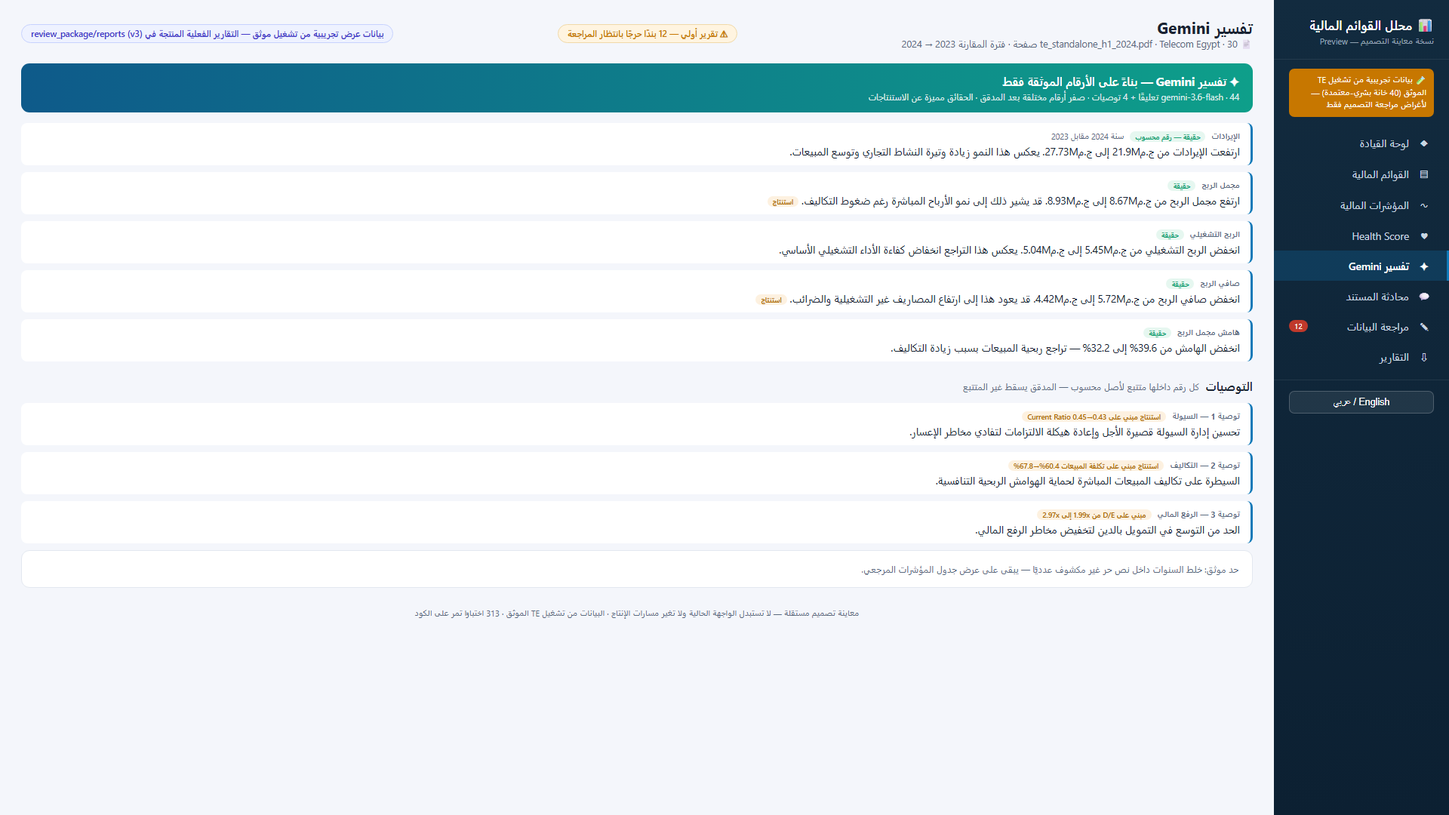
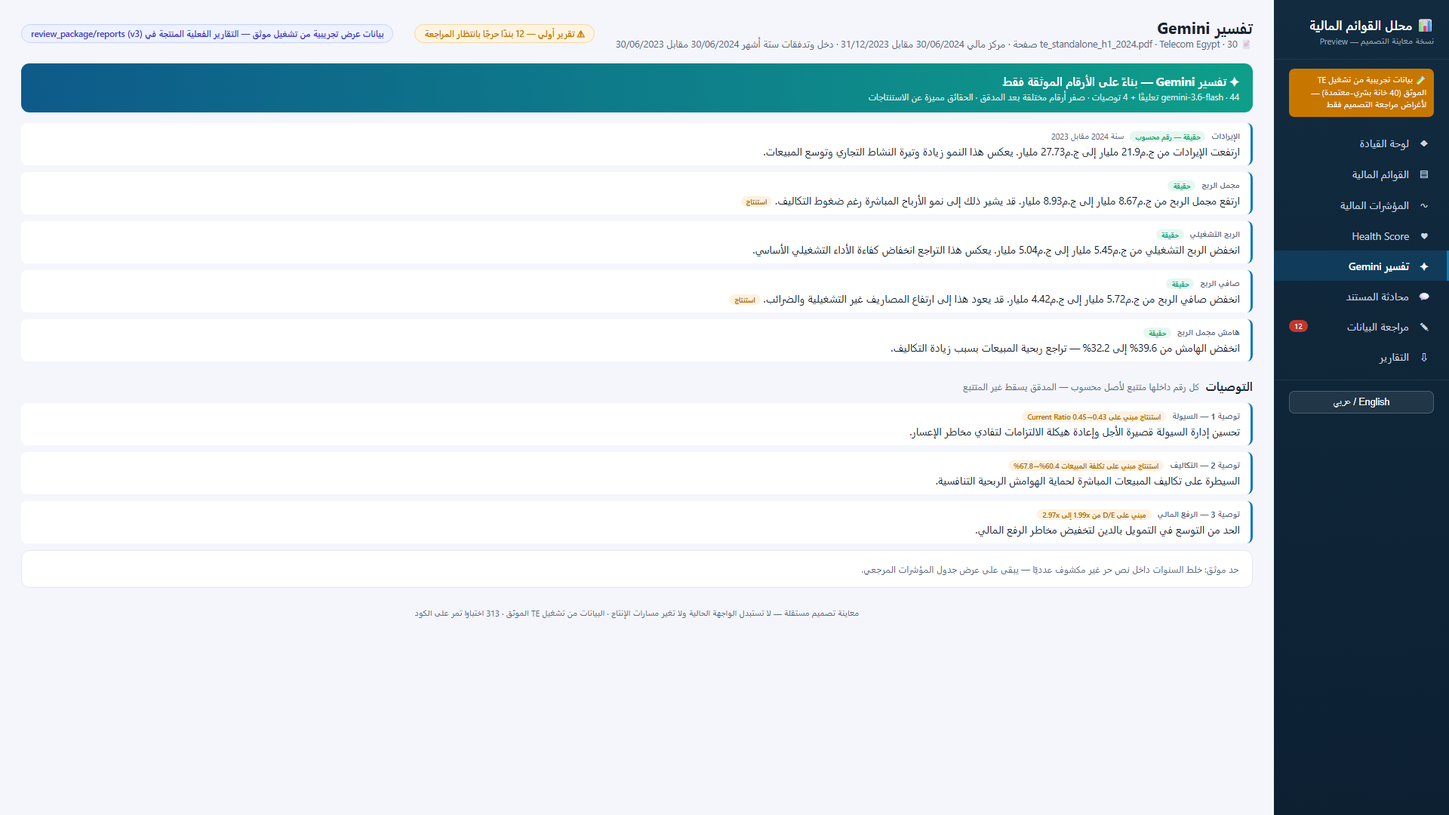
Review closure v4: four pre-merge points from the v3 package review
1. Preview data unification: the demo mixed THREE sources — EFG's
   accounts_payable (1,718,752/1,042,716) and AbuQir's current
   liabilities (6,467,099/4,740,794) sat in TE's statements table, with
   31/12/2024 headers on an interim SOFP. tools/audit_preview_data.py
   checks every preview value against the TE frozen GT: now 24/24 exact —
   TE values restored, non-GT rows replaced with GT-backed ones (receiv
   able, tax expense with its printed sign), SOFP dated 30/06/2024 vs
   31/12/2023, income six months 30/06/2024 vs 30/06/2023, review-queue
   rows relabeled to their 2022 test document, old M-notation strings
   updated to the unified Arabic units. GT files are NOT consumed as
   production extraction results — the preview stays a labeled demo.

2. PDF tail page: the disclaimer moved into the cover's meta table (no
   trailing paragraph at all) and LibreOffice's over-aggressive
   page-break-after:avoid removed — TE 13->12 pages, last page now the
   complete Missing-Data + review-trail content (536 chars), EFG last
   page 464 chars.

3. Provisional-analysis labeling (no equation changes): when the report
   is preliminary, a '⚠ تحليل تجريبي غير معتمد' banner precedes the
   Gemini commentary AND the recommendations in HTML/PDF, and Excel gets
   a '⚠ حالة النماذج' row on the academic-models sheet plus a 'حالة
   التحليل' row in the summary — nothing computed from needs-review
   values is presented as a final verdict anymore.
[…]

diff --git a/مشروع تخرج حسن/design/mvp_preview.html b/مشروع تخرج حسن/design/mvp_preview.html
@@ -153,7 +153,7 @@ body.en .nav a.on{border-left-color:var(--brand2);border-right:0}
     <div class="topbar">
       <div>
         <h2 id="vtitle">لوحة القيادة</h2>
-        <div class="file">📄 te_standalone_h1_2024.pdf · Telecom Egypt · 30 صفحة · فترة المقارنة 2023 → 2024</div>
+        <div class="file">📄 te_standalone_h1_2024.pdf · Telecom Egypt · 30 صفحة · مركز مالي 30/06/2024 مقابل 31/12/2023 · دخل وتدفقات ستة أشهر 30/06/2024 مقابل 30/06/2023</div>
       </div>
       <span class="pill prelim" id="statuspill">⚠ تقرير أولي — 12 بندًا حرجًا بانتظار المراجعة</span>
       <span class="pill" id="demopill" style="background:#eef2ff;color:#4338ca;border:1px solid #c7d2fe">بيانات عرض تجريبية من تشغيل موثق — التقارير الفعلية المنتجة في review_package/reports (v3)</span>
@@ -181,7 +181,7 @@ body.en .nav a.on{border-left-color:var(--brand2);border-right:0}
             الربح قبل الضريبة <b class="num">3,143,601</b> <span class="badge b-conv">اتفاقية: مطبوع</span><br>
             الضرائب (ائتمان) <b class="num">+1,272,749</b> <span class="badge b-conv">اتفاقية إشارة</span><br>
             <b>صافي الربح <span class="num">4,416,350</span></b> <span class="badge b-human">بشري</span><br>
-            <span style="color:var(--ink2);font-size:11.5px">⚠ الائتمان الضريبي (+1.27M) يفسّر ارتفاع الصافي عن قبل الضريبة — معلن في التقرير</span>
+            <span style="color:var(--ink2);font-size:11.5px">⚠ الائتمان الضريبي (+1.27 مليار) يفسّر ارتفاع الصافي عن قبل الضريبة — معلن في التقرير</span>
           </div>
         </div>
         <div class="card"><h3>Beneish M-Score</h3>
@@ -202,18 +202,16 @@ body.en .nav a.on{border-left-color:var(--brand2);border-right:0}
       <div class="sec" style="margin-top:0">قائمة المركز المالي — كما قُرئت من الصفحة 5 <small>انقر أي رقم لفتح مصدره من المستند</small></div>
       <div class="tblwrap">
         <table>
-          <thead><tr><th>البند</th><th>الإيضاح</th><th>31/12/2024</th><th>31/12/2023</th><th>الحالة</th><th>المصدر</th></tr></thead>
+          <thead><tr><th>البند</th><th>الإيضاح</th><th>30/06/2024</th><th>31/12/2023</th><th>الحالة</th><th>المصدر</th></tr></thead>
           <tbody>
             <tr><td>ممتلكات ومعدات</td><td class="dir-ltr">(12)</td><td class="num">89,842,411</td><td class="num">76,244,954</td><td><span class="badge b-auto">آلي عبر-طبقتين</span></td><td><a class="cite" onclick="openSrc('ممتلكات ومعدات','2024','89,842,411','ص5',5)">ص5 · الصف 12</a></td></tr>
-            <tr><td>أصول غير ملموسة</td><td class="dir-ltr">(13)</td><td class="num">20,327,981</td><td class="num">14,964,829</td><td><span class="badge b-auto">آلي</span></td><td><a class="cite" onclick="openSrc('أصول غير ملموسة','2024','20,327,981','ص5',5)">ص5</a></td></tr>
-            <tr><td><b>إجمالي الأصول غير المتداولة</b></td><td></td><td class="num"><b>130,024,840</b></td><td class="num"><b>105,727,263</b></td><td><span class="badge b-auto">آلي</span></td><td><a class="cite" onclick="openSrc('إجمالي الأصول غير المتداولة','2024','130,024,840','ص5',5)">ص5</a></td></tr>
             <tr><td>المخزون</td><td class="dir-ltr">(16)</td><td class="num">5,732,698</td><td class="num">3,623,500</td><td><span class="badge b-auto">آلي</span></td><td><a class="cite" onclick="openSrc('المخزون','2024','5,732,698','ص5',5)">ص5</a></td></tr>
+            <tr><td>ذمم مدينة وأرصدة مدينة أخرى</td><td class="dir-ltr">(15)</td><td class="num">12,985,847</td><td class="num">7,752,132</td><td><span class="badge b-auto">آلي</span></td><td><a class="cite" onclick="openSrc('ذمم مدينة','2024','12,985,847','ص5',5)">ص5</a></td></tr>
             <tr><td>نقدية وما في حكمها</td><td class="dir-ltr">(19)</td><td class="num">6,000,305</td><td class="num">10,272,954</td><td><span class="badge b-human">معتمد بشريًا</span></td><td><a class="cite" onclick="openSrc('نقدية وما في حكمها','2024','6,000,305','ص5',5)">ص5</a></td></tr>
             <tr><td><b>إجمالي الأصول المتداولة</b></td><td></td><td class="num"><b>39,472,216</b></td><td class="num"><b>28,631,278</b></td><td><span class="badge b-human">بشري</span></td><td><a class="cite" onclick="openSrc('إجمالي الأصول المتداولة','2024','39,472,216','ص5',5)">ص5</a></td></tr>
             <tr style="background:#f0f6fc"><td><b>إجمالي الأصول</b></td><td></td><td class="num" style="font-size:14px"><b>169,497,056</b></td><td class="num"><b>134,358,541</b></td><td><span class="badge b-auto">آلي عبر-طبقتين</span></td><td><a class="cite" onclick="openSrc('إجمالي الأصول','2024','169,497,056','ص5',5)">ص5</a></td></tr>
-            <tr><td>دائنون وأرصدة دائنة أخرى</td><td class="dir-ltr">(21)</td><td class="num">1,718,752</td><td class="num">1,042,716</td><td><span class="badge b-human">معتمد بشريًا</span></td><td><a class="cite" onclick="openSrc('دائنون — قسم المتداولة','2024','1,718,752','ص5',5)">ص5 · قسم المتداولة</a></td></tr>
-            <tr><td>ضريبة الدخل المتداولة</td><td class="dir-ltr">(30)</td><td class="num">3,511,467</td><td class="num">1,702,098</td><td><span class="badge b-auto">آلي</span></td><td><a class="cite" onclick="openSrc('ضريبة الدخل المتداولة','2024','3,511,467','ص5',5)">ص5</a></td></tr>
-            <tr><td><b>إجمالي الالتزامات المتداولة</b></td><td></td><td class="num"><b>6,467,099</b></td><td class="num"><b>4,740,794</b></td><td><span class="badge b-auto">آلي</span></td><td><a class="cite" onclick="openSrc('إجمالي الالتزامات المتداولة','2024','6,467,099','ص5',5)">ص5</a></td></tr>
+            <tr><td>دائنون وأرصدة دائنة أخرى</td><td class="dir-ltr">(21)</td><td class="num">33,524,304</td><td class="num">25,538,574</td><td><span class="badge b-human">معتمد بشريًا</span></td><td><a class="cite" onclick="openSrc('دائنون — قسم المتداولة','2024','33,524,304','ص5',5)">ص5 · قسم المتداولة</a></td></tr>
+            <tr><td><b>إجمالي الالتزامات المتداولة</b></td><td></td><td class="num"><b>91,625,404</b></td><td class="num"><b>64,166,416</b></td><td><span class="badge b-auto">آلي</span></td><td><a class="cite" onclick="openSrc('إجمالي الالتزامات المتداولة','2024','91,625,404','ص5',5)">ص5</a></td></tr>
             <tr><td><b>إجمالي الالتزامات</b></td><td></td><td class="num"><b>142,292,178</b></td><td class="num"><b>98,205,590</b></td><td><span class="badge b-human">معتمد بشريًا (تصحيح صف)</span></td><td><a class="cite" onclick="openSrc('إجمالي الالتزامات','2024','142,292,178','ص5',5)">ص5</a></td></tr>
             <tr style="background:#f0f6fc"><td><b>إجمالي حقوق الملكية والالتزامات</b></td><td></td><td class="num" style="font-size:14px"><b>169,497,056</b></td><td class="num"><b>134,358,541</b></td><td><span class="badge b-auto">آلي — مطابق للأصول</span></td><td><a class="cite" onclick="openSrc('إجمالي حقوق الملكية والالتزامات','2024','169,497,056','ص5',5)">ص5</a></td></tr>
           </tbody>
@@ -221,7 +219,7 @@ body.en .nav a.on{border-left-color:var(--brand2);border-right:0}
       </div>
       <div class="sec">قائمة الدخل — الصفحة 6</div>
       <div class="tblwrap"><table>
-        <thead><tr><th>البند</th><th>31/12/2024</th><th>31/12/2023</th><th>الحالة</th><th>المصدر</th></tr></thead>
+        <thead><tr><th>البند</th><th>30/06/2024</th><th>30/06/2023</th><th>الحالة</th><th>المصدر</th></tr></thead>
         <tbody>
           <tr><td>الإيرادات</td><td class="num">27,727,014</td><td class="num">21,899,104</td><td><span class="badge b-auto">آلي عبر-طبقتين</span></td><td><a class="cite" onclick="openSrc('الإيرادات','2024','27,727,014','ص6',6)">ص6</a></td></tr>
           <tr><td>تكلفة الإيرادات <span class="badge b-conv">اتفاقية: مخزنة موجبة</span></td><td class="num">18,799,203</td><td class="num">13,227,521</td><td><span class="badge b-conv">مطابقة المقدار — الإشارة باتفاقية</span></td><td><a class="cite" onclick="openSrc('تكلفة الإيرادات','2024','(18 799 203)','ص6',6)">ص6</a></td></tr>
@@ -311,10 +309,10 @@ body.en .nav a.on{border-left-color:var(--brand2);border-right:0}
     <!-- ═══ 5. GEMINI ═══ -->
     <section class="view" id="v-gemini">
       <div class="ai-head"><div><b>✦ تفسير Gemini — بناءً على الأرقام الموثقة فقط</b><div style="font-size:11.5px;opacity:.85;margin-top:3px">gemini-3.6-flash · 44 تعليقًا + 4 توصيات · صفر أرقام مختلقة بعد المدقق · الحقائق مميزة عن الاستنتاجات</div></div></div>
-      <div class="comment"><div class="who"><b>الإيرادات</b><span class="fact">حقيقة — رقم محسوب</span><span style="font-size:10.5px">سنة 2024 مقابل 2023</span></div>ارتفعت الإيرادات من ج.م21.9M إلى ج.م27.73M. يعكس هذا النمو زيادة وتيرة النشاط التجاري وتوسع المبيعات.</div>
-      <div class="comment"><div class="who"><b>مجمل الربح</b><span class="fact">حقيقة</span></div>ارتفع مجمل الربح من ج.م8.67M إلى ج.م8.93M. قد يشير ذلك إلى نمو الأرباح المباشرة رغم ضغوط التكاليف. <span class="infer">استنتاج</span></div>
-      <div class="comment"><div class="who"><b>الربح التشغيلي</b><span class="fact">حقيقة</span></div>انخفض الربح التشغيلي من ج.م5.45M إلى ج.م5.04M. يعكس هذا التراجع انخفاض كفاءة الأداء التشغيلي الأساسي.</div>
-      <div class="comment"><div class="who"><b>صافي الربح</b><span class="fact">حقيقة</span></div>انخفض صافي الربح من ج.م5.72M إلى ج.م4.42M. قد يعود هذا إلى ارتفاع المصاريف غير التشغيلية والضرائب. <span class="infer">استنتاج</span></div>
+      <div class="comment"><div class="who"><b>الإيرادات</b><span class="fact">حقيقة — رقم محسوب</span><span style="font-size:10.5px">سنة 2024 مقابل 2023</span></div>ارتفعت الإيرادات من ج.م21.9 مليار إلى ج.م27.73 مليار. يعكس هذا النمو زيادة وتيرة النشاط التجاري وتوسع المبيعات.</div>
+      <div class="comment"><div class="who"><b>مجمل الربح</b><span class="fact">حقيقة</span></div>ارتفع مجمل الربح من ج.م8.67 مليار إلى ج.م8.93 مليار. قد يشير ذلك إلى نمو الأرباح المباشرة رغم ضغوط التكاليف. <span class="infer">استنتاج</span></div>
+      <div class="comment"><div class="who"><b>الربح التشغيلي</b><span class="fact">حقيقة</span></div>انخفض الربح التشغيلي من ج.م5.45 مليار إلى ج.م5.04 مليار. يعكس هذا التراجع انخفاض كفاءة الأداء التشغيلي الأساسي.</div>
+      <div class="comment"><div class="who"><b>صافي الربح</b><span class="fact">حقيقة</span></div>انخفض صافي الربح من ج.م5.72 مليار إلى ج.م4.42 مليار. قد يعود هذا إلى ارتفاع المصاريف غير التشغيلية والضرائب. <span class="infer">استنتاج</span></div>
       <div class="comment"><div class="who"><b>هامش مجمل الربح</b><span class="fact">حقيقة</span></div>انخفض الهامش من 39.6% إلى 32.2% — تراجع ربحية المبيعات بسبب زيادة التكاليف.</div>
       <div class="sec">التوصيات <small>كل رقم داخلها متتبع لأصل محسوب — المدقق يسقط غير المتتبع</small></div>
       <div class="comment"><div class="who"><b>توصية 1 — السيولة</b><span class="infer">استنتاج مبني على Current Ratio 0.45→0.43</span></div>تحسين إدارة السيولة قصيرة الأجل وإعادة هيكلة الالتزامات لتفادي مخاطر الإعسار.</div>
@@ -360,12 +358,12 @@ body.en .nav a.on{border-left-color:var(--brand2);border-right:0}
       <div id="real-ev"></div>
       <div class="sec" style="margin-top:18px">البنود المعلقة</div>
       <div class="rrow">
-        <div class="fld">إجمالي الالتزامات 2024</div>
+        <div class="fld">الالتزامات الإجمالية 2022 (مستند اختباري)</div>
         <div class="vals"><span>الآلة: 15,928,525 <span class="badge b-conf">صف خطأ — قسم غير المتداولة</span></span></div>
         <div class="btns"><button class="btn ok">اعتماد الصحيح 142,292,178</button><button class="btn hum">تصحيح</button><button class="btn no">رفض</button><button class="btn ghost" onclick="openSrc('إجمالي الالتزامات','2024','—','ص5',5)">📄 المصدر ص5</button></div>
       </div>
       <div class="rrow">
-        <div class="fld">الربح التشغيلي 2024</div>
+        <div class="fld">الربح التشغيلي 2022 (مستند اختباري)</div>
         <div class="vals"><span>الآلة: 5,040,128 <span class="badge b-pend">أحادي الطبقة (رؤية فقط)</span></span></div>
         <div class="btns"><button class="btn ok">اعتماد</button><button class="btn hum">تصحيح</button><button class="btn no">رفض</button><button class="btn ghost" onclick="openSrc('الربح التشغيلي','2024','—','ص6',6)">📄 ص6</button></div>
       </div>
@@ -427,8 +425,8 @@ const TEXTMAP={
 "تقرير PDF":"PDF report","تقرير HTML":"HTML report","تقرير Excel تفاعلي":"Interactive Excel report","تنزيل PDF":"Download PDF","تنزيل XLSX":"Download XLSX","فتح HTML":"Open HTML","نفس الأرقام والتعليقات — يتضمن علم أولي/نهائي وأثر المراجعة — 15.5KB":"Same numbers and comments — includes the preliminary/final flag and the review trail — 15.5KB","الملخص · المؤشرات · الجداول · أثر المراجعة البشرية — 16.7KB":"Summary · Metrics · Tables · Human-review trail — 16.7KB","كل رقم داخلها متتبع لأصل محسوب — المدقق يسقط غير المتتبع":"Every number traces to a computed origin — the auditor drops untraceable ones",
 "التوصيات":"Recommendations","توصية 1 — السيولة":"Recommendation 1 — Liquidity","توصية 2 — التكاليف":"Recommendation 2 — Costs","توصية 3 — الرفع المالي":"Recommendation 3 — Leverage","تحسين إدارة السيولة قصيرة الأجل وإعادة هيكلة الالتزامات لتفادي مخاطر الإعسار.":"Improve short-term liquidity management and restructure liabilities to avert insolvency risk.","السيطرة على تكاليف المبيعات المباشرة لحماية الهوامش الربحية التنافسية.":"Control direct cost of sales to protect competitive margins.","حد موثق: خلط السنوات داخل نص حر غير مكشوف عدديًا — يبقى على عرض جدول المؤشرات المرجعي.":"Documented limit: mixing years inside free text is not numerically disclosed — it stays on the reference metrics table view.",
 "ما صافي الربح للفترة؟":"What is the net profit for the period?","ما ربحية السهم للفترة؟":"What is the EPS for the period?","ما السياسات المحاسبية؟":"What are the accounting policies?","ما مخاطر الائتمان التي تواجه الشركة؟":"What credit risks does the company face?","مصروفات البنود غير النقدية؟":"Non-cash item expenses?","إيضاح الضرائب المؤجلة؟":"Deferred-tax note?","إرسال":"Send",
-"هامش 15.93%":"Margin 15.93%","دوران 0.183":"Turnover 0.183","رافعة 4.796":"Leverage 4.796","✓ مطابق للـROE المباشر (reconciles)":"✓ matches direct ROE (reconciles)","الآلة: 15,928,525":"Machine: 15,928,525","الآلة: 5,040,128":"Machine: 5,040,128","الآلة: 3,143,601":"Machine: 3,143,601","الآلة: 18,799,203":"Machine: 18,799,203","اعتماد الصحيح 142,292,178":"Approve correct 142,292,178","اعتماد بالاتفاقية":"Approve by convention","صف خطأ — قسم غير المتداولة":"Wrong row — non-current section","مفكك ومتحقق منه":"Parsed and verified","مليار ج.م":"EGP billion","صافي الربح: مسار 2024":"Net income: 2024 path","▲ 26.6% عن 2023":"▲ 26.6% vs 2023","▼ 22.8% عن 2023":"▼ 22.8% vs 2023","▲ من 0.583 — رافعة مرتفعة":"▲ from 0.583 — high leverage","⚠ تقرير أولي — 12 بندًا حرجًا بانتظار المراجعة":"⚠ Preliminary report — 12 critical items awaiting review","أولي — 12 بندًا معلقًا":"Preliminary — 12 pending","بيانات عرض تجريبية من تشغيل موثق — التقارير الفعلية المنتجة في review_package/reports (v3)":"Demo display data from a verified run — the actual produced reports are in review_package/reports (v3)","⚠ الائتمان الضريبي (+1.27M) يفسّر ارتفاع الصافي عن قبل الضريبة — معلن في التقرير":"⚠ The tax credit (+1.27M) explains net exceeding pretax — disclosed in the report","⚠ رافعة مرتفعة (D/E 2.97) وسيولة ضعيفة (0.43×) — مخاطر ظاهرة في الدرجة ولا تختفي بتجميعها.":"⚠ High leverage (D/E 2.97) and weak liquidity (0.43×) — visible in the score, not hidden by aggregation.","✦ تفسير Gemini — بناءً على الأرقام الموثقة فقط":"✦ Gemini commentary — based on attested numbers only","🧪 بيانات تجريبية من تشغيل TE الموثق (40 خانة بشري-معتمدة) — لأغراض مراجعة التصميم فقط":"🧪 Demo data from the verified TE run (40 human-attested cells) — for design review only","معاينة تصميم مستقلة — لا تستبدل الواجهة الحالية ولا تغير مسارات الإنتاج · البيانات من تشغيل TE الموثق · 313 اختبارًا تمر على الكود":"Standalone design preview — does not replace the current UI nor touch production paths · data from the verified TE run · 313 tests passing","نسخة معاينة التصميم — Preview":"Design preview edition — Preview",
-"كل رقم يظهر بحالته الفعلية":"Every figure appears in its actual state","40/40 ملتقطة · Signed Exact للآلي = 38/40 (95%) · FA = 0":"40/40 captured · Signed Exact for auto = 38/40 (95%) · FA = 0","SGAI (مصروفات البيع والإدارة) غير موجود ضمن الخانات الموثقة لهذا المستند.":"SGAI (selling & admin expenses) is not among this document's attested cells.","المكونات الستة المتاحة معروضة في تبويب المؤشرات.":"The six available components are shown in the Metrics tab.","(مصروفات البيع والإدارة) — الخانات الموثقة لهذا المستند لا تشملها. الموديل يرفض إصدار M-Score جزئي (لا اختلاق).":"(selling & admin expenses) — this document's attested cells do not include them. The model refuses a partial M-Score (no fabrication).","📄 te_standalone_h1_2024.pdf · Telecom Egypt · 30 صفحة · فترة المقارنة 2023 → 2024":"📄 te_standalone_h1_2024.pdf · Telecom Egypt · 30 pages · comparison period 2023 → 2024","✓ استخراج: 40/40 خانة ملتقطة (رؤية + محلي عبر-طبقتين) · ✓ سلسلة المراجعة: 40 إقرارًا موثقًا (HMAC سليم) · ✓ Gemini: 44 تعليقًا + 4 توصيات (صفر أرقام مختلقة بعد المدقق) · ✓ RAG: 55/55 صفحة إيضاحات مفهرسة · ✓ PDF: 6 صفحات (257KB)":"✓ Extraction: 40/40 cells captured (vision + local, two layers) · ✓ Review chain: 40 attested records (HMAC intact) · ✓ Gemini: 44 comments + 4 recommendations (zero fabricated numbers after the auditor) · ✓ RAG: 55/55 note pages indexed · ✓ PDF: 6 pages (257KB)"};
+"هامش 15.93%":"Margin 15.93%","دوران 0.183":"Turnover 0.183","رافعة 4.796":"Leverage 4.796","✓ مطابق للـROE المباشر (reconciles)":"✓ matches direct ROE (reconciles)","الآلة: 15,928,525":"Machine: 15,928,525","الآلة: 5,040,128":"Machine: 5,040,128","الآلة: 3,143,601":"Machine: 3,143,601","الآلة: 18,799,203":"Machine: 18,799,203","اعتماد الصحيح 142,292,178":"Approve correct 142,292,178","اعتماد بالاتفاقية":"Approve by convention","صف خطأ — قسم غير المتداولة":"Wrong row — non-current section","مفكك ومتحقق منه":"Parsed and verified","مليار ج.م":"EGP billion","صافي الربح: مسار 2024":"Net income: 2024 path","▲ 26.6% عن 2023":"▲ 26.6% vs 2023","▼ 22.8% عن 2023":"▼ 22.8% vs 2023","▲ من 0.583 — رافعة مرتفعة":"▲ from 0.583 — high leverage","⚠ تقرير أولي — 12 بندًا حرجًا بانتظار المراجعة":"⚠ Preliminary report — 12 critical items awaiting review","أولي — 12 بندًا معلقًا":"Preliminary — 12 pending","بيانات عرض تجريبية من تشغيل موثق — التقارير الفعلية المنتجة في review_package/reports (v3)":"Demo display data from a verified run — the actual produced reports are in review_package/reports (v3)","⚠ الائتمان الضريبي (+1.27 مليار) يفسّر ارتفاع الصافي عن قبل الضريبة — معلن في التقرير":"⚠ The tax credit (+1.27 billion) explains net exceeding pretax — disclosed in the report","⚠ رافعة مرتفعة (D/E 2.97) وسيولة ضعيفة (0.43×) — مخاطر ظاهرة في الدرجة ولا تختفي بتجميعها.":"⚠ High leverage (D/E 2.97) and weak liquidity (0.43×) — visible in the score, not hidden by aggregation.","✦ تفسير Gemini — بناءً على الأرقام الموثقة فقط":"✦ Gemini commentary — based on attested numbers only","🧪 بيانات تجريبية من تشغيل TE الموثق (40 خانة بشري-معتمدة) — لأغراض مراجعة التصميم فقط":"🧪 Demo data from the verified TE run (40 human-attested cells) — for design review only","معاينة تصميم مستقلة — لا تستبدل الواجهة الحالية ولا تغير مسارات الإنتاج · البيانات من تشغيل TE الموثق · 313 اختبارًا تمر على الكود":"Standalone design preview — does not replace the current UI nor touch production paths · data from the verified TE run · 313 tests passing","نسخة معاينة التصميم — Preview":"Design preview edition — Preview",
+"كل رقم يظهر بحالته الفعلية":"Every figure appears in its actual state","40/40 ملتقطة · Signed Exact للآلي = 38/40 (95%) · FA = 0":"40/40 captured · Signed Exact for auto = 38/40 (95%) · FA = 0","SGAI (مصروفات البيع والإدارة) غير موجود ضمن الخانات الموثقة لهذا المستند.":"SGAI (selling & admin expenses) is not among this document's attested cells.","المكونات الستة المتاحة معروضة في تبويب المؤشرات.":"The six available components are shown in the Metrics tab.","(مصروفات البيع والإدارة) — الخانات الموثقة لهذا المستند لا تشملها. الموديل يرفض إصدار M-Score جزئي (لا اختلاق).":"(selling & admin expenses) — this document's attested cells do not include them. The model refuses a partial M-Score (no fabrication).","📄 te_standalone_h1_2024.pdf · Telecom Egypt · 30 صفحة · مركز مالي 30/06/2024 مقابل 31/12/2023 · دخل وتدفقات ستة أشهر 30/06/2024 مقابل 30/06/2023":"📄 te_standalone_h1_2024.pdf · Telecom Egypt · 30 pages · comparison period 2023 → 2024","✓ استخراج: 40/40 خانة ملتقطة (رؤية + محلي عبر-طبقتين) · ✓ سلسلة المراجعة: 40 إقرارًا موثقًا (HMAC سليم) · ✓ Gemini: 44 تعليقًا + 4 توصيات (صفر أرقام مختلقة بعد المدقق) · ✓ RAG: 55/55 صفحة إيضاحات مفهرسة · ✓ PDF: 6 صفحات (257KB)":"✓ Extraction: 40/40 cells captured (vision + local, two layers) · ✓ Review chain: 40 attested records (HMAC intact) · ✓ Gemini: 44 comments + 4 recommendations (zero fabricated numbers after the auditor) · ✓ RAG: 55/55 note pages indexed · ✓ PDF: 6 pages (257KB)"};
 function applyLang(){
   const roots=[document.querySelector(".main"), document.getElementById("srcmodal")]
     .filter(Boolean);

diff --git a/مشروع تخرج حسن/tools/audit_preview_data.py b/مشروع تخرج حسن/tools/audit_preview_data.py
@@ -1,0 +1,119 @@
+# -*- coding: utf-8 -*-
+"""تدقيق بيانات المعاينة (نقطة 1 من مراجعة v3): كل رقم/سنة/تاريخ في
+mvp_preview.html يُقارن بملف TE GT المجمد — مصدر الديمو الواحد القابل
+للتتبع. يرصد: قيم شركات أخرى (خلط EFG/AbuQir)، صفوف بلا أصل في TE GT،
+وتواريخ خاطئة. الناتج JSON يوثق حالة المعاينة قبل/بعد الإصلاح."""
+from __future__ import annotations
+
+import json
+import re
+import sys
+from pathlib import Path
+
+PROJ = Path(__file__).resolve().parents[1]
+sys.path.insert(0, str(PROJ))
+
+PREVIEW = PROJ / "design/mvp_preview.html"
+GT = PROJ / "independent_docs/te_holdout/gt_te_frozen.json"
+OUT = PROJ / "cell_evidence/preview_data_audit.json"
+
+# التسمية في جدول المعاينة → الحقل في TE GT (None = لا أصل في TE GT)
+ROW_MAP = {
+    "ممتلكات ومعدات": "fixed_assets",
+    "أصول غير ملموسة": None,
+    "إجمالي الأصول غير المتداولة": None,
+    "المخزون": "inventory",
+    "نقدية وما في حكمها": "cash",
+    "إجمالي الأصول المتداولة": "current_assets",
+    "إجمالي الأصول": "total_assets",
+    "دائنون وأرصدة دائنة أخرى": "accounts_payable",
+    "إجمالي الالتزامات المتداولة": "current_liabilities",
+    "إجمالي الالتزامات": "total_liabilities",
+    "الإيرادات": "revenue",
+    "تكلفة الإيرادات": "cost_of_revenue",
+    "مجمل الربح": "gross_profit",
+    "الربح التشغيلي": "operating_income",
+    "الربح قبل الضريبة": "pretax_income",
+    "ضريبة الدخل المتداولة": None,       # GT يحمل مصروف الضريبة لا التزامها
+    "صافي الربح للفترة": "net_income",
+    "حقوق الملكية": "equity",
+    "التدفق النقدي التشغيلي": "operating_cash_flow",
+    "التدفق النقدي الاستثماري": "investing_cash_flow",
+    "التدفق النقدي التمويلي": "financing_cash_flow",
+    "ذمم مدينة وأرصدة مدينة أخرى": "accounts_receivable",
+}
+
+
+def _num(tok: str) -> float | None:
+    t = tok.replace(",", "").strip().replace("(", "-").replace(")", "")
+    try:
+        return float(t)
+    except ValueError:
+        return None
+
+
+def main() -> dict:
+    gt = json.loads(GT.read_text(encoding="utf-8"))
+    html = PREVIEW.read_text(encoding="utf-8")
+
+    issues: list[dict] = []
+    checked = 0
+
+    # 1) صفوف جدولي القوائم: <tr><td>LABEL</td>…<td class="num">V24</td>
+    #    <td class="num">V23</td>… — نمط خلايا الأرقام بعد التسمية
+    for m in re.finditer(
+            r"<tr[^>]*><td[^>]*>(?:<b>)?([^<]{2,40})(?:</b>)?</td>"
+            r"(?:<td[^>]*>[^<]*</td>)?"
+            r'<td class="num[^"]*">(?:<b>)?([^<]+)(?:</b>)?</td>'
+            r'<td class="num[^"]*">(?:<b>)?([^<]+)(?:</b>)?</td>',
+            html):
+        label = m.group(1).strip()
+        field = ROW_MAP.get(label, "?")
+        if field is None:
+            issues.append({"kind": "row_not_in_te_gt", "label": label})
+            continue
+        if field == "?":
+            continue                      # صف بغير خرائط التدقيق
+        for idx, year in ((2, "2024"), (3, "2023")):
+            shown = _num(m.group(idx))
+            if shown is None:
+                continue
+            checked += 1
+            gt_e = gt["cells"].get(year, {}).get(field)
+            gt_v = float(gt_e["value"]) if gt_e else None
+            if gt_v is None:
+                issues.append({"kind": "value_not_in_te_gt", "label": label,
+                               "year": year, "shown": shown})
+            elif abs(shown - gt_v) > 0.5:
+                issues.append({"kind": "value_mismatch", "label": label,
+                               "year": year, "shown": shown, "te_gt": gt_v,
+                               "delta": shown - gt_v})
+
+    # 2) التواريخ: SOFP المرحلي بتاريخ 30/06/2024 (مقابله 31/12/2023)
+    for bad in ("31/12/2024",):
+        if bad in html:
+            issues.append({"kind": "wrong_date", "shown": bad,
+                           "expected": "30/06/2024 (قائمة المركز المالي)"})
+
+    # 3) صيغة الوحدة القديمة (M) داخل نصوص الديمو
+    old_m = re.findall(r"ج\.م\d+\.?\d*M\b", html)
+    if old_m:
+        issues.append({"kind": "old_unit_notation", "samples": old_m[:6],
+                       "count": len(old_m)})
+
+    out = {"audited_values": checked, "issues": issues,
+           "issue_count": len(issues),
+           "source_of_truth": "independent_docs/te_holdout/gt_te_frozen.json",
+           "note": "المعاينة ديمو من تشغيل TE الموثق — ليست استخراجًا جديدًا"
+                   " ولا تُستهلك في الإنتاج."}
+    OUT.write_text(json.dumps(out, ensure_ascii=False, indent=1),
+                   encoding="utf-8")
+    print(f"checked={checked} issues={len(issues)}")
+    for i in issues[:25]:
+        print(" -", json.dumps(i, ensure_ascii=False)[:150])
+    print(f"artifact: {OUT}")
+    return out
+
+
+if __name__ == "__main__":
+    main()

diff --git a/مشروع تخرج حسن/tools/final_cell_acceptance.py b/مشروع تخرج حسن/tools/final_cell_acceptance.py
@@ -86,28 +86,68 @@ def main() -> dict:
          "code_head": code["head"]},
         sort_keys=True).encode("utf-8")).hexdigest()[:16]
 
+    # v4 (نقطة 4): FA=0 على صفر قيم معتمدة ليس إثباتًا لسلامة القبول الآلي —
+    # FAR يبقى N/A هنا، والتفريق الثلاثي واجب التوثيق:
+    attested_accepted = sum(
+        r["cells_checked"] - len([
+            m for m in r["mismatches"]])
+        for r in results)  # كل خلايا الإعادة غير معتمدة أصلاً (يحتاج مراجعة)
+    auto_accepted_count = 0   # الإعادة الصادقة لا تمنح أي قيمة حالة اعتماد
+    far = (round(total_fa / auto_accepted_count, 4)
+           if auto_accepted_count else None)   # None = N/A بصدق
+
     out = {
         "generated_at": datetime.now().isoformat(timespec="seconds"),
         "what_this_is": (
-            "النتيجة النهائية على مستوى الخلايا: كل قيمة معروضة في تقارير "
-            "v3 مقابل ملف GT المجمد بقراءة مستقلة من الملف. FA = قيم "
-            "اعتمدها التقرير واختلفت عن GT."),
+            "نتيجة مستوى الخلايا: كل قيمة معروضة في التقارير مقابل ملف GT "
+            "المجمد بقراءة مستقلة من الملف. تقيس سلامة إعادة إنتاج GT — "
+            "ولا تقيس دقة الاستخراج ولا سلامة القبول الآلي (انظر "
+            "three_way_distinction)."),
         "code_version": code,
+        "code_state": ("commit نظيف — الملفات أعلاه تحديدًا؛ أي تعديل لاحق "
+                       "على الكود يبطل هذه النتيجة"),
         "run_fingerprint_sha16": fingerprint,
         "historical_note": (
             "te_final_audit_post_fix.json (FA=2) تشغيل وسيط قبل قاعدة "
-            "التصديق عبر-طبقتين — محفوظ ولا يُستبدل؛ هذه هي النتيجة "
-            "النهائية."),
+            "التصديق عبر-طبقتين — محفوظ ولا يُستبدل."),
+        "three_way_distinction": {
+            "1_replay_integrity": {
+                "measured_here": True,
+                "result": f"{total_cells - total_fa}/{total_cells} خلية مطابقة لـGT",
+                "meaning": "صحة إعادة إنتاج قيم GT في التقارير — الإعادة "
+                           "تأخذ قيمها من GT فالمطابقة شرط اتساق لا فضل.",
+            },
+            "2_extraction_accuracy": {
+                "measured_here": False,
+                "result": "غير مقيس هنا",
+                "meaning": "دقة الاستخراج الفعلي من المستندات تُقاس في تقييمات "
+                           "الـholdout المستقلة (TE: FAR 0.0 على التوقيعات في "
+                           "جولة القبول؛ EFG عبر مسار الرؤية) — لا في هذه "
+                           "الإعادة.",
+            },
+            "3_auto_acceptance_accuracy": {
+                "measured_here": False,
+                "result": "FAR = N/A",
+                "meaning": "صفر قيم معتمدة آليًا في هذه الإعادة (كل الحالات "
+                           "«يحتاج مراجعة») — FA=0 على صفر معتمد لا يثبت شيئًا "
+                           "عن سلامة القبول الآلي، ولا يُقدَّم كذلك.",
+            },
+        },
         "total": {"cells_checked": total_cells,
                   "false_accepts": total_fa,
-                  "false_accept_rate": (round(total_fa / total_cells, 4)
-                                        if total_cells else None)},
+                  "auto_accepted_values": auto_accepted_count,
+                  "false_accept_rate": far,      # None = N/A بصدق
+                  "false_accept_rate_display": ("N/A — صفر قيم معتمدة آليًا"
+                                                if far is None else far),
+                  "attested_values_replayed": attested_accepted},
         "reports": results,
     }
     OUT.write_text(json.dumps(out, ensure_ascii=False, indent=1),
                    encoding="utf-8")
-    print(f"cells={total_cells} FA={total_fa} "
-          f"(fingerprint {fingerprint}, code {code['head']})")
+    print(f"cells={total_cells} FA={total_fa} auto_accepted={auto_accepted_count} "
+          f"FAR={'N/A' if far is None else far} "
+          f"(fingerprint {fingerprint}, code {code['head']}, "
+          f"dirty={len(code['dirty'])})")
     print(f"artifact: {OUT}")
     return out
 

diff --git a/مشروع تخرج حسن/src/dashboard/report.py b/مشروع تخرج حسن/src/dashboard/report.py
@@ -91,6 +91,9 @@ body.printsafe table.metaln td { border: none; padding: 2px 4px;
                                  vertical-align: top; }
 body.printsafe table.metaln td.mlab { white-space: nowrap; font-weight: 600;
                                       color: #475569; width: 1%; }
+body.printsafe ul { margin: 4px 0; }
+body.printsafe li { margin-bottom: 3px; }
+body.printsafe .comment { padding: 5px 2px; }
 """
 
 
@@ -264,6 +267,13 @@ def build_html_report(
     na_html = _meta("مؤشرات غير قابلة للحساب (N/A)",
                     "، ".join(str(x) for x in na_metrics))
     tax_html = _meta("ملاحظة الضريبة", tax_note)
+    # v4 (نقطة 2): الإخلاء صف في جدول الميتا على الغلاف — لا فقرة ذيلية
+    # تُترك وحيدة في صفحة أخيرة شبه فارغة
+    disclaimer_html = _meta(
+        "إخلاء مسؤولية",
+        "Benchmark mentions, if any, refer to widely accepted general "
+        "guideline levels — not sector averages. This report does not "
+        "constitute investment advice.")
 
     # Human-review trail (أثر المراجعة البشرية): every value a human attested
     # carries the reviewer, the machine value before, and the final verdict —
@@ -278,6 +288,19 @@ def build_html_report(
     )
 
     interpreter = "Gemini AI" if analysis.ok else "deterministic rule-based engine"
+    # v4 (نقطة 3): كل تحليل مبني على قيم غير مراجَعة يُوسم صراحة — تعليقات
+    # Gemini والتوصيات وأي حكم مشتق لا يُقدَّم كحكم نهائي بينما أعمدة
+    # التحقق تقول «يحتاج مراجعة». المعادلات نفسها بلا تغيير.
+    if preliminary:
+        provisional_html = (
+            '<div style="background:#fef3c7;border:1px solid #f0d9a8;'
+            'border-radius:9px;padding:9px 14px;margin:8px 0;font-size:.85rem">'
+            '⚠ <b>تحليل تجريبي غير معتمد</b> — التعليقات والتوصيات التالية '
+            'مولدة آليًا من قيم حالتها «يحتاج مراجعة» (عمود Verification في '
+            'الجدول أعلاه) — تُقرأ كمؤشرات للاستكشاف، وليست حكمًا نهائيًا.'
+            "</div>")
+    else:
+        provisional_html = ""
     # dir=rtl (v3): التقرير عربي أساسًا — غياب اتجاه القاعدة جعل LibreOffice
     # يكسر الأسطر العربية عند الحواف وحتى داخل الكلمات
     return f"""<!DOCTYPE html>
@@ -290,17 +313,17 @@ def build_html_report(
 Interpreted by: {ESC(interpreter)} ({ESC(analysis.model)}) · All numbers computed in Python</div>
 {report_status}
 {score_html}
-{unit_html}{period_html}{tax_html}{na_html}
+{unit_html}{period_html}{tax_html}{na_html}{disclaimer_html}
 <h2>Metrics — {prev_y} vs {cur_y}</h2>
 {_metrics_table(results['rows'], prev_y, cur_y, currency, scale, results.get('verification_status'))}
 <h2>Ratio Commentary</h2>
+{provisional_html}
 {comments}
 <h2>Recommendations</h2>
+{provisional_html}
 {recs}
 <h2>Missing Data</h2>
 {missing}
 <h2>Human Review Trail — أثر المراجعة البشرية</h2>
 {reviews}
-<p class="muted">Benchmark mentions, if any, refer to widely accepted general guideline
-levels — not sector averages. This report does not constitute investment advice.</p>
 </div></body></html>"""

diff --git a/مشروع تخرج حسن/src/dashboard/excel_report.py b/مشروع تخرج حسن/src/dashboard/excel_report.py
@@ -74,6 +74,9 @@ def build_excel_report(results: dict) -> bytes:
     ws.append(["عدد الأعلام الحمراء", len(flags)])
     bn = beneish_m_score(prev, curr)
     ws.append(["Beneish M-Score", bn.m_score if bn.m_score is not None else "غير محسوب"])
+    if results.get("pending_critical_review"):
+        ws.append(["حالة التحليل", "تحليل تجريبي غير معتمد — النماذج والتعليقات "
+                   "مولدة من قيم تحتاج مراجعة؛ الدرجة الصحية محجوبة وفق السياسة."])
     for m in academic_models(curr):
         ws.append([m.name, m.value if m.value is not None else "غير محسوب"])
 
@@ -130,6 +133,12 @@ def build_excel_report(results: dict) -> bytes:
             " · ".join(f"{k}={v:g}" for k, v in m.components.items()) or "—",
             ", ".join(m.missing) or "—",
         ])
+    # v4 (نقطة 3): النماذج أعلاه محسوبة من قيم حالتها «يحتاج مراجعة» —
+    # المخرجات مؤشرات استكشافية لا حكم نهائي (المعادلات بلا تغيير)
+    if results.get("pending_critical_review"):
+        ws.append(["⚠ حالة النماذج", "تحليل تجريبي غير معتمد",
+                   "محسوبة من قيم تحتاج مراجعة (عمود حالة التحقق في ورقة "
+                   "المؤشرات) — لا تُقدَّم كحكم نهائي على التعثر."])
 
     # --- الأعلام الحمراء ---
     ws = wb.create_sheet("الأعلام الحمراء")
